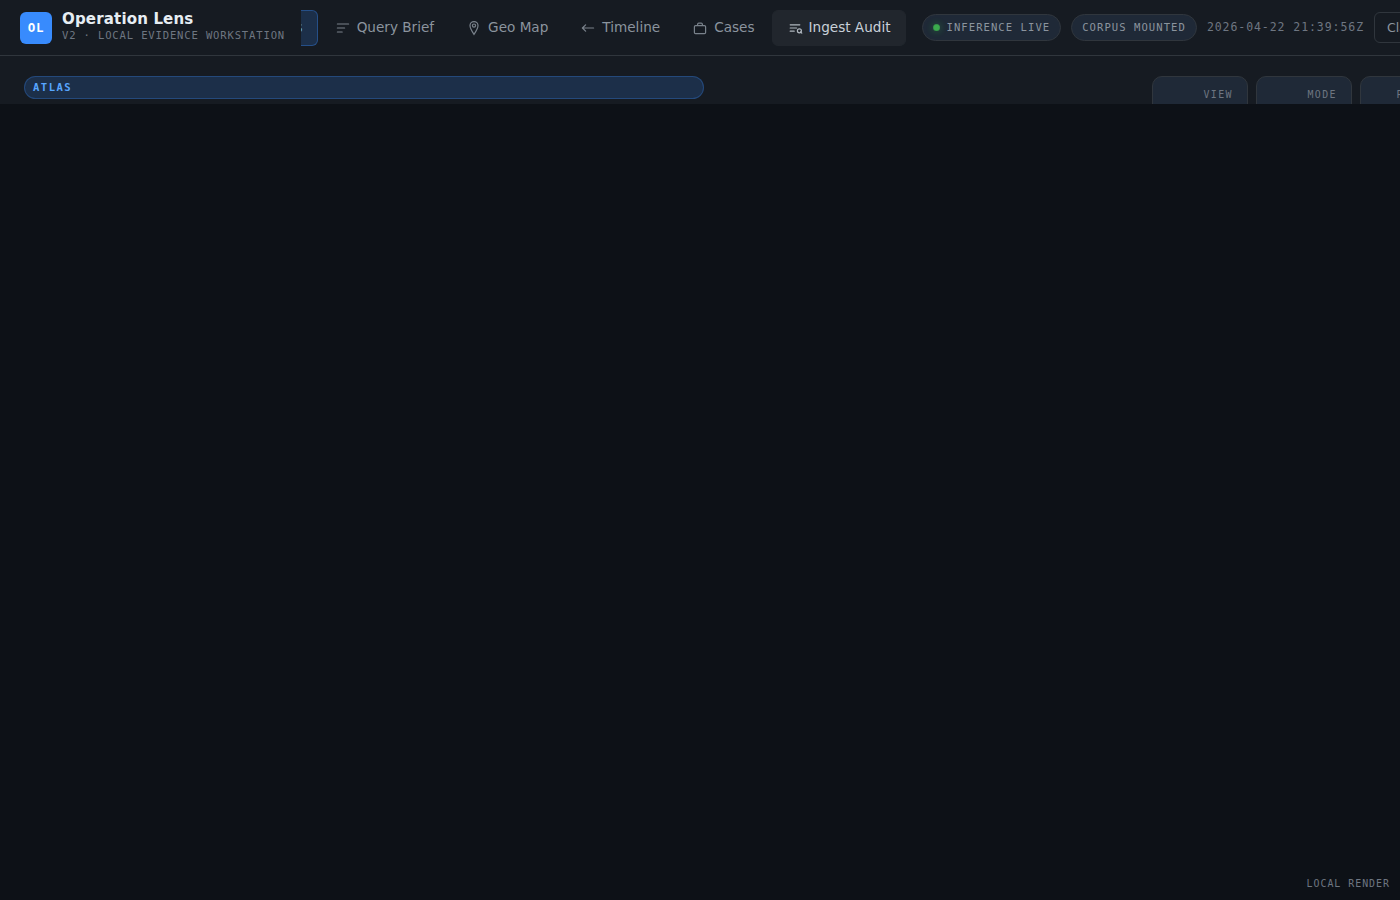
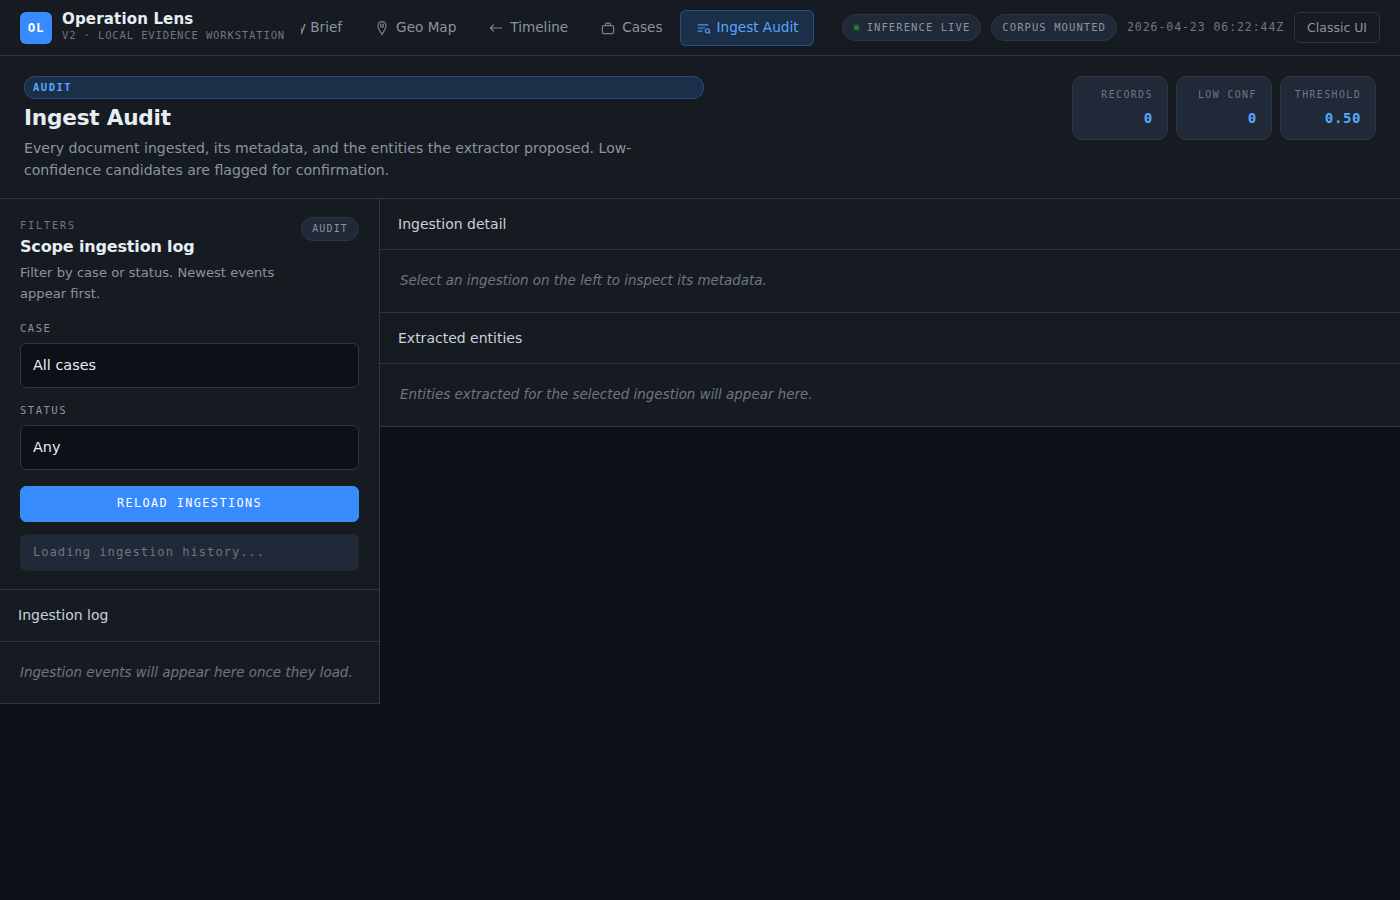
feat: fix CSS layout, fix tab JS, retake screenshots, add screenshot docs
Agent-Logs-Url: https://github.com/meabs/localsearch/sessions/b9ab2500-3454-4c03-b392-e733ea72c965

diff --git a/src/operation_lens_v2/frontend/styles.css b/src/operation_lens_v2/frontend/styles.css
@@ -69,8 +69,8 @@ button, input, textarea, select { font: inherit; }
 
 /* ── Shell ─────────────────────────────────────────────────────────── */
 #shell {
-  display: grid;
-  grid-template-rows: var(--topbar-h) var(--topnav-h) 1fr;
+  display: flex;
+  flex-direction: column;
   min-height: 100vh;
 }
 
@@ -249,6 +249,7 @@ button, input, textarea, select { font: inherit; }
 
 /* ── Content area ──────────────────────────────────────────────────── */
 #content {
+  flex: 1;
   overflow: auto;
   min-height: 0;
 }
@@ -259,8 +260,8 @@ button, input, textarea, select { font: inherit; }
 
 /* ── Workspace ─────────────────────────────────────────────────────── */
 .workspace {
-  display: grid;
-  grid-template-rows: auto 1fr;
+  display: flex;
+  flex-direction: column;
   gap: 0;
   min-height: 0;
 }
@@ -357,7 +358,7 @@ button, input, textarea, select { font: inherit; }
   grid-template-columns: minmax(280px, 320px) minmax(0, 1fr);
   gap: 0;
   min-height: 0;
-  align-content: start;
+  align-items: start;
 }
 
 .graph-layout    { grid-template-columns: minmax(280px, 320px) minmax(0, 1fr); }

diff --git a/src/operation_lens_v2/frontend/index.html b/src/operation_lens_v2/frontend/index.html
@@ -648,7 +648,7 @@
         panes.forEach((p) => p.classList.remove("active"));
         const target = document.getElementById(targetId);
         if (target) target.classList.add("active");
-        const btn = document.querySelector(\`.nav-btn[data-target="\${targetId}"]\`);
+        const btn = document.querySelector('.nav-btn[data-target="' + targetId + '"]');
         if (btn) btn.classList.add("active");
         const key = Object.keys(TAB_MAP).find((k) => TAB_MAP[k] === targetId);
         if (key) history.replaceState(null, "", "#" + key);

diff --git a/docs/screenshots/README.md b/docs/screenshots/README.md
@@ -1,0 +1,81 @@
+# UI Screenshots
+
+Operation Lens v2 ships two UI themes that can be toggled at runtime — both serve the same FastAPI backend and all JS modules unchanged.
+
+| Path | Theme | Switch link |
+|---|---|---|
+| `/ui/` (`index.html`) | **New UI** — horizontal top-nav, slate-dark palette | "Classic UI" button (top-right) |
+| `/ui/classic.html` | **Classic UI** — cinematic amber/space-dark palette | "Switch to new UI" pill (bottom-right) |
+
+Both UIs support **URL hash routing**: `/ui/#graph`, `/ui/#query`, `/ui/#map`, `/ui/#timeline`, `/ui/#cases`, `/ui/#audit`.
+
+---
+
+## New UI
+
+### Entity Atlas (`#graph`)
+
+![New UI – Entity Relationship Atlas](new-ui-atlas.png)
+
+Top bar with logo + horizontal nav. Two-column layout: left side panel (seed form, node dossier), right canvas area (layout toolbar, graph canvas, legend, path-finder / centrality / community tools).
+
+### Query Brief (`#query`)
+
+![New UI – Query Brief](new-ui-query.png)
+
+Left: query form with scope / case / document / cloud-reasoning controls. Right: RAG chat transcript + structured assessment + source evidence extracts. Claims validation matrix in the side panel.
+
+### Geo Map (`#map`)
+
+![New UI – Geo Map](new-ui-map.png)
+
+Filter panel with basemap toggle. Full-width Leaflet canvas on the right.
+
+### Timeline (`#timeline`)
+
+![New UI – Chronology Desk](new-ui-timeline.png)
+
+Entity / document filter on the left. Full-width event list on the right, newest first.
+
+### Cases (`#cases`)
+
+![New UI – Case Intake Desk](new-ui-cases.png)
+
+Create-case and upload forms on the left. Case register + case-document list on the right.
+
+### Ingest Audit (`#audit`)
+
+![New UI – Ingest Audit](new-ui-audit.png)
+
+Filter form + ingestion log on the left. Ingestion detail + entity candidate list on the right.
+
+---
+
+## Classic UI (preserved)
+
+The original cinematic design is unchanged at `/ui/classic.html`.
+
+### Entity Atlas
+
+![Classic UI – Entity Atlas](classic-ui-atlas.png)
+
+### Query Brief
+
+![Classic UI – Query Brief](classic-ui-query.png)
+
+### Cases
+
+![Classic UI – Cases](classic-ui-cases.png)
+
+---
+
+## Design differences
+
+| | New UI | Classic UI |
+|---|---|---|
+| Navigation | Horizontal top bar | Vertical icon sidebar |
+| Palette | Slate `#0d1117`, blue accent `#388bfd` | Space dark `#04080f`, amber accent `#f1a73f` |
+| Typography | IBM Plex Sans body, Plex Mono for labels | IBM Plex Mono throughout |
+| Page header | Title + description + metric cards | Large cinematic H1 |
+| Switch | "Classic UI" button (top-right) | "Switch to New UI" pill (bottom-right) |
+| Hash routing | `/ui/#graph` etc. | `/ui/classic.html#graph` etc. |

diff --git a/docs/index.md b/docs/index.md
@@ -22,9 +22,25 @@ no document content ever leaves the machine.
 | Get it running in 5 minutes | [Quickstart](https://github.com/meabs/localsearch#quickstart-5-minutes) |
 | Understand how it fits together | [Architecture](architecture.md) |
 | Operate a running instance | [Runbook](runbook.md) |
+| See UI screenshots | [UI screenshots](screenshots/README.md) |
 | Extend it to a new domain | [Extending the system](https://github.com/meabs/localsearch#extending-the-system) |
 | Tune settings | [Configuration reference](https://github.com/meabs/localsearch#configuration-reference) |
 | Fix something that broke | [Troubleshooting](https://github.com/meabs/localsearch#troubleshooting) |
+
+---
+
+## UI
+
+Two themes ship side-by-side — switch at runtime with the button in the top-right / bottom-right corner.
+
+| Theme | URL | Description |
+|---|---|---|
+| **New UI** | `/ui/` | Horizontal top-nav, slate-dark `#0d1117`, IBM Plex Sans body, blue `#388bfd` accent |
+| **Classic UI** | `/ui/classic.html` | Cinematic amber/space-dark palette, vertical icon sidebar |
+
+Both support hash routing: `/ui/#graph`, `/ui/#query`, `/ui/#map`, `/ui/#timeline`, `/ui/#cases`, `/ui/#audit`.
+
+See [UI screenshots](screenshots/README.md) for a full visual comparison.
 
 ---
 
@@ -57,6 +73,7 @@ and redacts span text before any external call.
 
 - [Architecture notes](architecture.md) — data stores and pipeline shape
 - [Runbook](runbook.md) — operating notes
+- [UI screenshots](screenshots/README.md) — new and classic UI side-by-side
 - [Full README on GitHub](https://github.com/meabs/localsearch#readme) — detailed reference
 
 ## License
